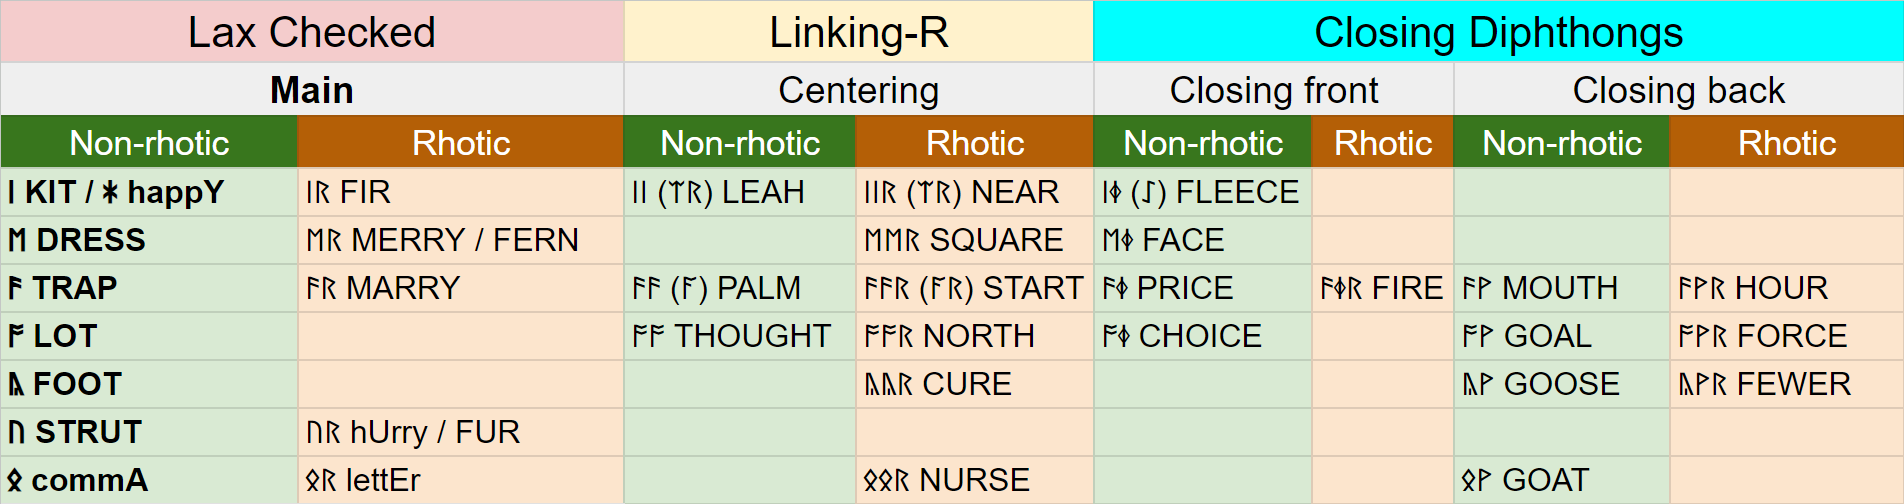
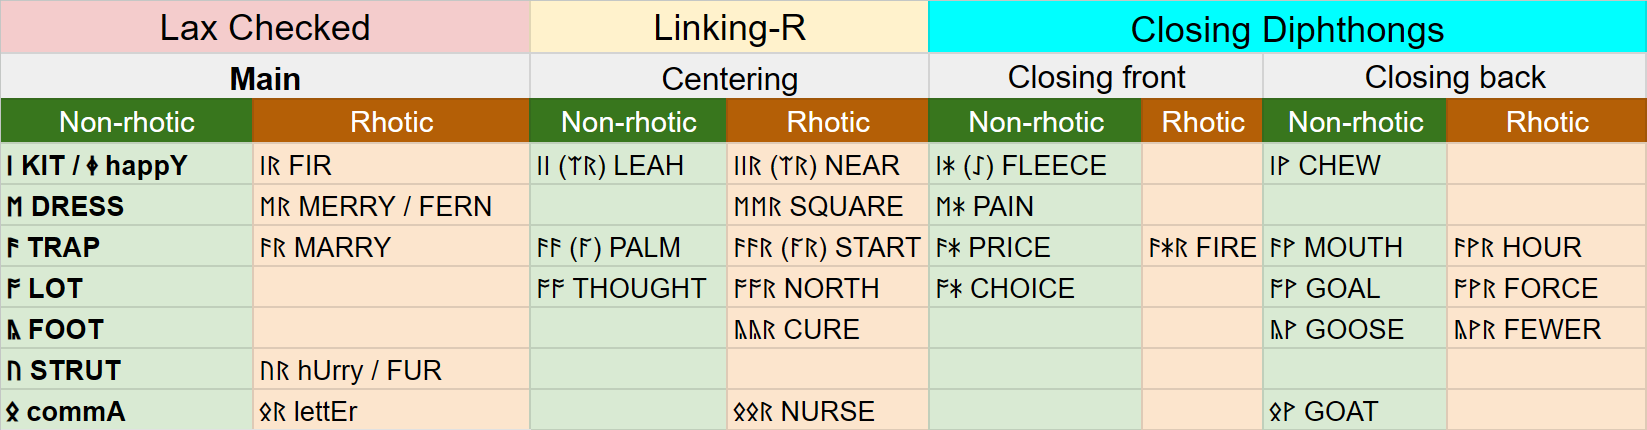
more ᛡᛄ swapping

diff --git a/_posts/2024-4-12-rune-school-spelling-system.md b/_posts/2024-4-12-rune-school-spelling-system.md
@@ -42,28 +42,28 @@ See a mapping of the vowels below:
 | ə | ə | 𐑩 | ᛟ |
 | ər | ər | 𐑼 | ᛟᚱ |
 | ɜː | ə́ːr | 𐑻 | ᛟᛟᚱ |
-| ɪ~i | ɪ | 𐑦 | ᛁ or ᛡ |
+| ɪ | ɪ | 𐑦 | ᛁ |
 | ɪə | ɪ́ː | 𐑾 | ᛁᛁ or ᛠ |
 | ɪər | ɪ́ːr | 𐑾 | ᛁᛁᚱ or ᛠᚱ|
-| i | ɪj | 𐑦 | ᛡ |
-| iː | ɪj | 𐑰 | ᛁᛄ or ᛇ |
+| i | ɪj | 𐑦 | ᛄ |
+| iː | ɪj | 𐑰 | ᛁᛡ or ᛇ |
 | e | ɛ | 𐑧 | ᛖ |
-| eɪ | ɛj | 𐑱 | ᛖᛄ |
+| eɪ | ɛj | 𐑱 | ᛖᛡ |
 | er | ɛ́r | 𐑺 | ᛖᚱ |
 | eə | ɛ́ːr | 𐑺 | ᛖᛖᚱ |
 | æ | a | 𐑨 | ᚫ |
-| aɪ | ɑj | 𐑲 | ᚫᛄ |
+| aɪ | ɑj | 𐑲 | ᚫᛡ |
 | aʊ | áw | 𐑬 | ᚫᚹ |
 | ɑː | ɑː | 𐑭 | ᚫᚫ or ᚪ |
 | ɑːr | ɑːr | 𐑸 | ᚫᚫᚱ or ᚪᚱ |
 | ɒ | ɔ́ | 𐑪 | ᚩ |
-| ɔɪ | ój | 𐑶 | ᚩᛄ |
+| ɔɪ | ój | 𐑶 | ᚩᛡ |
 | ɔː | óː | 𐑷 | ᚩᚩ |
 | ɔːr | óːr | 𐑹 | ᚩᚱ |
 | əʊ | əw | 𐑴 | ᚩᚹ |
 | ʊ | ʉ́ | 𐑫 | ᚣ |
 | uː | ʉ́w | 𐑵 | ᚣᚹ |
-| juː | jʉ́w | 𐑿 | ᛄᚣᚹ |
+| juː | jʉ́w | 𐑿 | ᛡᚣᚹ |
 
 <!-- 
 | Lexical Set | Rune | Stress |
@@ -115,7 +115,7 @@ See a mapping of the vowels below:
 
 ## happY vowel
 
-Use the happY rune ᛡ where Shavian would have a trailing 𐑦.
+Use the happY rune ᛄ where Shavian would have a trailing 𐑦.
 
 ## Syllabic consonants
 
@@ -127,7 +127,7 @@ In many (not all) places where you see **𐑩𐑯** or **𐑩𐑥**, you can jus
 
 When in doubt, consider the derivatives. 
 
-For example, consider "Terrible". Can it be spelled ᛏᛖᚱᛟᛒᛚ without a schwa before the L? If we can spell the derivative "Terribly" by just adding the -y on the end, then yes! ᛏᛖᚱᛟᛒᛚᛡ (it works!)
+For example, consider "Terrible". Can it be spelled ᛏᛖᚱᛟᛒᛚ without a schwa before the L? If we can spell the derivative "Terribly" by just adding the -y on the end, then yes! ᛏᛖᚱᛟᛒᛚᛄ (it works!)
 
 Another example, consider "Imagine". Can it be spelled ᛁᛗᚫᚷᚾ without a schwa before the N? If we can spell the derivative "Imagination" by just adding the -ation on the end, then yes! ᛁᛗᚫᚷᚾᛖᛄᛋᚳᚾ. It fails because the syllable boundaries break. It needs to be ᛁᛗᚫᚷᛟᚾᛖᛄᛋᚳᚾ for it to sound right, and thus the base word should be ᛁᛗᚫᚷᛟᚾ.
 
@@ -254,48 +254,50 @@ Previously, ᛇ was used for "rad*io*" and "g*eo*graphy" as well as the consonan
 
 | Latin | Runes  |
 | --- |  --- |
-| radio | ᚱᛖᛄᛞᛡᚩᚹ |
-| geography |  ᚷᛡᚩᚸᚱᛟᚠᛡ |
+| radio | ᚱᛖᛄᛞᛄᚩᚹ |
+| geography |  ᚷᛄᚩᚸᚱᛟᚠᛄ |
 | fleece | ᚠᛚᛇᛋ |
 
 Users may represent FLEECE as either ᛁᛄ or ᛇ.
 
-## ᛡ for happY vowel
+## ᛄ for happY vowel
 
-> [happY can be associated with either fleece, kit, or face, with vowel qualities in the range of /i ~ ɪ ~ e ~ ɛ/](https://ecampusontario.pressbooks.pub/lexicalsets/chapter/25-happy-lexical-set/)"
+"[happY can be associated with either fleece, kit, or face, with vowel qualities in the range of /i ~ ɪ ~ e ~ ɛ/](https://ecampusontario.pressbooks.pub/lexicalsets/chapter/25-happy-lexical-set/)". KIT, FLEECE, and happY are not three distinct sounds. Rather, happY could be either KIT or FLEECE. If anyone has used Shavian before, you know the pain of not having a letter just for this happY phoneme.
 
-The sound in happY could be either KIT or FLEECE, or something different all together. If anyone has used Shavian before, you know the pain of not having a letter just for this happY phoneme. So the happY vowel is now represented with ᛡ. 
+Previously, the ᛁ rune represented both KIT and FLEECE and therefore if it was on the end of a word, it could be whatever you wanted it to be. The one issue that would occur from this is the famous confusion of "candied" and "candide".
 
-ᛄ and ᛡ are famously controversial. Many believe that they are two different styles for the same rune. But the fact is that multiple manuscripts contain both of these runes and they even have different names. So at least one person out there thought the difference was significant enough to warrant two different runes with their own stanzas. That is good enough for me to respect.
+Now, we have different runes for both KIT and FLEECE. So the happY vowel is now represented with ᛄ. 
 
-ᛡ was called "Īor", probably meaning "eel". ᛄ was called "Gēr", meaning "year". 
+ᛄ and ᛡ are famously controversial. Many believe that they are two different styles for the same rune. But the fact is that multiple manuscripts contain both of these runes and they even have different names. That would not be the case if they were just stylistic variants of the same rune.
 
-If we take each of these runes sounds as being the first phoneme of their names, then ᛡ has an /i/-ish sound and ᛄ has a /j/-ish sound.
+ᛡ was called "Īor", (probably) meaning "eel". ᛄ was called "Gēr", meaning "year". 
 
-The /i/-ish sound is perfect for the happY vowel. And moving ᛄ to the FACE, PRICE, and CHOICE phonemes will make it consistent with the usage of ᚹ in this same regard.
+Realistically, both of these runes could be a /j/ sound. But it's postulated that ᛡ specifically had a /jo/ sound. Therefore, it seems more appropriate for making diphthongs like /ej/, /aj/, /oj/, etc. 
 
-| Latin       | Runes  |
-| ----------- |  --------- |
-| Kale        |  ᛣᛖᛄᛚ      |
-| Kyle        |  ᛣᚫᛄᛚ      |
-| Coil        |  ᛣᚩᛄᛚ      |
-| Geography   |  ᚷᛡᚩᚸᚱᛟᚠᛡ  |
-| Radio       |  ᚱᛖᛄᛞᛡᚩᚹ   |
-| Kitty       |  ᛣᛁᛏᛡ      |
-| Create      |  ᚳᚱᛡᛖᛄᛏ    |
-| Easily (1)  |  ᛁᛄᛉᛁᛚᛡ     |
-| Easily (2)  | ᛇᛉᛁᛚᛡ    |
-| Yield (1)   |  ᛄᛁᛄᛚᛞ     |
-| Yield (2)   |  ᛄᛇᛚᛞ      |
-| Reality   |  ᚱᛡᚫᛚᛁᛏᛡ      |
-| Candied     | ᛣᚫᚾᛞᛡᛞ    |
-| Candidly    |  ᛣᚫᚾᛞᛁᛞᛚᛡ  |
-| Candide (1) |  ᛣᚫᚾᛞᛁᛄᛞ    |
+So what do we do with ᛄ? Well, just like the use of the letter "y" in latin English, it can have a use as the happY phoneme.
+
+| Latin       |  Runes |
+| -------- |  ------ |
+| Kale        |  ᛣᛖᛡᛚ      |
+| Kyle        |  ᛣᚪᛡᛚ      |
+| Coil        |  ᛣᚩᛡᛚ      |
+| Geography   |  ᚷᛄᚩᚸᚱᛟᚠᛄ  |
+| Radio       | ᚱᛖᛡᛞᛄᚩᚹ   |
+| Kitty       |  ᛣᛁᛏᛄ      |
+| Create      | ᚳᚱᛄᛖᛡᛏ    |
+| Easily (1)  |  ᛁᛡᛉᛁᛚᛄ     |
+| Easily (2)  |  ᛇᛉᛁᛚᛄ    |
+| Yield (1)   | ᛡᛁᛡᛚᛞ     |
+| Yield (2)   |  ᛡᛇᛚᛞ      |
+| Reality   |  ᚱᛄᚫᛚᛁᛏᛄ      |
+| Candied     |  ᛣᚫᚾᛞᛄᛞ    |
+| Candidly    |  ᛣᚫᚾᛞᛁᛞᛚᛄ  |
+| Candide (1) |  ᛣᚫᚾᛞᛁᛡᛞ    |
 | Candide (2) |  ᛣᚫᚾᛞᛇᛞ   |
 
-Ultimately, if a user confuses these two runes and uses just one for happY and /j/, it's not the end of the world. But offering this distinction should aid in clarity.
+Ultimately, if a user uses just one rune for both happY and /j/, it's not the end of the world. But offering this distinction should aid in clarity.
 
-It can also be noted that if bindrunes become widely available, bindrunes of ᛖᛡ ᚫᛡ ᚩᛡ could be used which would distinguish diphthongs from the happY vowel, if someone should want to only use ᛡ and not ᛄ.
+This solution also keeps ᛡ more common than ᛄ which is true to the Anglo-Saxon corpus as well.
 
 ## ᚪ as a shortcut for ᚫᚫ
 
@@ -327,8 +329,8 @@ If you don't have the NORTH-FORCE merger, you can spell NORTH words with ᚩᚱ 
 
 ## Merge lettER and NURSE
 
-NURSE ᛟᛟᚱ is stressed where lettER ᛟᚱ is not.
+Does lettER sound the same as NURSE to you? NURSE ᛟᛟᚱ is stressed where lettER ᛟᚱ is not.
 
 ## Merge commA and STRUT
 
-STRUT ᚢ is stressed where commA ᛟ is not.
+Does commA sound the same as STRUT to you? STRUT ᚢ is stressed where commA ᛟ is not.

diff --git a/_posts/2024-4-11-runes-and-sounds.md b/_posts/2024-4-11-runes-and-sounds.md
@@ -100,8 +100,8 @@ Here is a list of runes so that you can see how this system has kept them the sa
 | ᚻ    | hægl | /h/               | /h/                   | <span style="color:green"> /h/ </span> |
 | ᚾ    | nēod | /n/               | /n/                   | <span style="color:green"> /n/ </span> |
 | ᛁ    | īs  | /i(ː)/           | /i(ː)/                   | <span style="color:orange"> /ɪ/ </span> |
-| ᛄ    | Gēr | /j/               | /j/                   | <span style="color:green"> /j/ </span> |
-| ᛡ    | Īor |                   | /jo/                   | <span style="color:orange"> /i/  </span> |
+| ᛄ    | Gēr | /j/               | /j/                   | <span style="color:orange"> /i/ </span> |
+| ᛡ    | Īor |                   | /jo/                   | <span style="color:green"> /j/  </span> |
 | ᛇ    | Ēoh / īw | /iː~ç/            | /iː~x~ç/               | <span style="color:green"> /iː~x~ç/ </span> |
 | ᛈ    | peorð | /p/               | /p/                   | <span style="color:green"> /p/ </span> |
 | ᛉ    | ilcs (eolh?) | /z/               |    /ks/?                   | <span style="color:orange"> /z/ </span> |
@@ -164,42 +164,44 @@ Another option entirely would be to use ᚣ as a rune that represents /ju:/ like
 
 Option 4 is the best because of the STRUT-FOOT (hull-pull) merger and the FOOT-GOOSE merger. *Visually* STRUT and FOOT look similar and *also* FOOT and GOOSE look similar. So FOOT is the meeting point of the two. Also, STRUT is a more open sound than FOOT on the IPA vowel chart and ᚢ looks more visually open than ᚣ.
 
-### ᛡ 
+### ᛄ 
 
 "[happY can be associated with either fleece, kit, or face, with vowel qualities in the range of /i ~ ɪ ~ e ~ ɛ/](https://ecampusontario.pressbooks.pub/lexicalsets/chapter/25-happy-lexical-set/)". KIT, FLEECE, and happY are not three distinct sounds. Rather, happY could be either KIT or FLEECE. If anyone has used Shavian before, you know the pain of not having a letter just for this happY phoneme.
 
 Previously, the ᛁ rune represented both KIT and FLEECE and therefore if it was on the end of a word, it could be whatever you wanted it to be. The one issue that would occur from this is the famous confusion of "candied" and "candide".
 
-Now, we have different runes for both KIT and FLEECE. So the happY vowel is now represented with ᛡ. 
+Now, we have different runes for both KIT and FLEECE. So the happY vowel is now represented with ᛄ. 
 
 ᛄ and ᛡ are famously controversial. Many believe that they are two different styles for the same rune. But the fact is that multiple manuscripts contain both of these runes and they even have different names. That would not be the case if they were just stylistic variants of the same rune.
 
-ᛡ was called "Īor", meaning "eel". ᛄ was called "Gēr", meaning "year". 
+ᛡ was called "Īor", (probably) meaning "eel". ᛄ was called "Gēr", meaning "year". 
 
-If we take each of these runes sounds as being the first phoneme of their names, then ᛡ has an /i/-ish sound and ᛄ has a /j/-ish sound.
+Realistically, both of these runes could be a /j/ sound. But it's postulated that ᛡ specifically had a /jo/ sound. Therefore, it seems more appropriate for making diphthongs like /ej/, /aj/, /oj/, etc. 
 
-The /i/-ish sound is perfect for the happY vowel. And moving ᛄ to the FACE, PRICE, and CHOICE phonemes will make it consistent with the usage of ᚹ in this same regard.
+So what do we do with ᛄ? Well, just like the use of the letter "y" in latin English, it can have a use as the happY phoneme.
 
 | Latin       |  Runes |
 | -------- |  ------ |
-| Kale        |  ᛣᛖᛄᛚ      |
-| Kyle        |  ᛣᚪᛄᛚ      |
-| Coil        |  ᛣᚩᛄᛚ      |
-| Geography   |  ᚷᛡᚩᚸᚱᛟᚠᛡ  |
-| Radio       | ᚱᛖᛄᛞᛡᚩᚹ   |
-| Kitty       |  ᛣᛁᛏᛡ      |
-| Create      | ᚳᚱᛡᛖᛄᛏ    |
-| Easily (1)  |  ᛁᛄᛉᛁᛚᛡ     |
-| Easily (2)  |  ᛇᛉᛁᛚᛡ    |
-| Yield (1)   | ᛄᛁᛄᛚᛞ     |
-| Yield (2)   |  ᛄᛇᛚᛞ      |
-| Reality   |  ᚱᛡᚫᛚᛁᛏᛡ      |
-| Candied     |  ᛣᚫᚾᛞᛡᛞ    |
-| Candidly    |  ᛣᚫᚾᛞᛁᛞᛚᛡ  |
-| Candide (1) |  ᛣᚫᚾᛞᛁᛄᛞ    |
+| Kale        |  ᛣᛖᛡᛚ      |
+| Kyle        |  ᛣᚪᛡᛚ      |
+| Coil        |  ᛣᚩᛡᛚ      |
+| Geography   |  ᚷᛄᚩᚸᚱᛟᚠᛄ  |
+| Radio       | ᚱᛖᛡᛞᛄᚩᚹ   |
+| Kitty       |  ᛣᛁᛏᛄ      |
+| Create      | ᚳᚱᛄᛖᛡᛏ    |
+| Easily (1)  |  ᛁᛡᛉᛁᛚᛄ     |
+| Easily (2)  |  ᛇᛉᛁᛚᛄ    |
+| Yield (1)   | ᛡᛁᛡᛚᛞ     |
+| Yield (2)   |  ᛡᛇᛚᛞ      |
+| Reality   |  ᚱᛄᚫᛚᛁᛏᛄ      |
+| Candied     |  ᛣᚫᚾᛞᛄᛞ    |
+| Candidly    |  ᛣᚫᚾᛞᛁᛞᛚᛄ  |
+| Candide (1) |  ᛣᚫᚾᛞᛁᛡᛞ    |
 | Candide (2) |  ᛣᚫᚾᛞᛇᛞ   |
 
-Ultimately, if a user ᛄ and ᛡ and uses just one for both happY and /j/, it's not the end of the world. But offering this distinction should aid in clarity.
+Ultimately, if a user uses just one rune for both happY and /j/, it's not the end of the world. But offering this distinction should aid in clarity.
+
+This solution also keeps ᛡ more common than ᛄ which is true to the Anglo-Saxon corpus as well.
 
 ### ᚢ 
 
